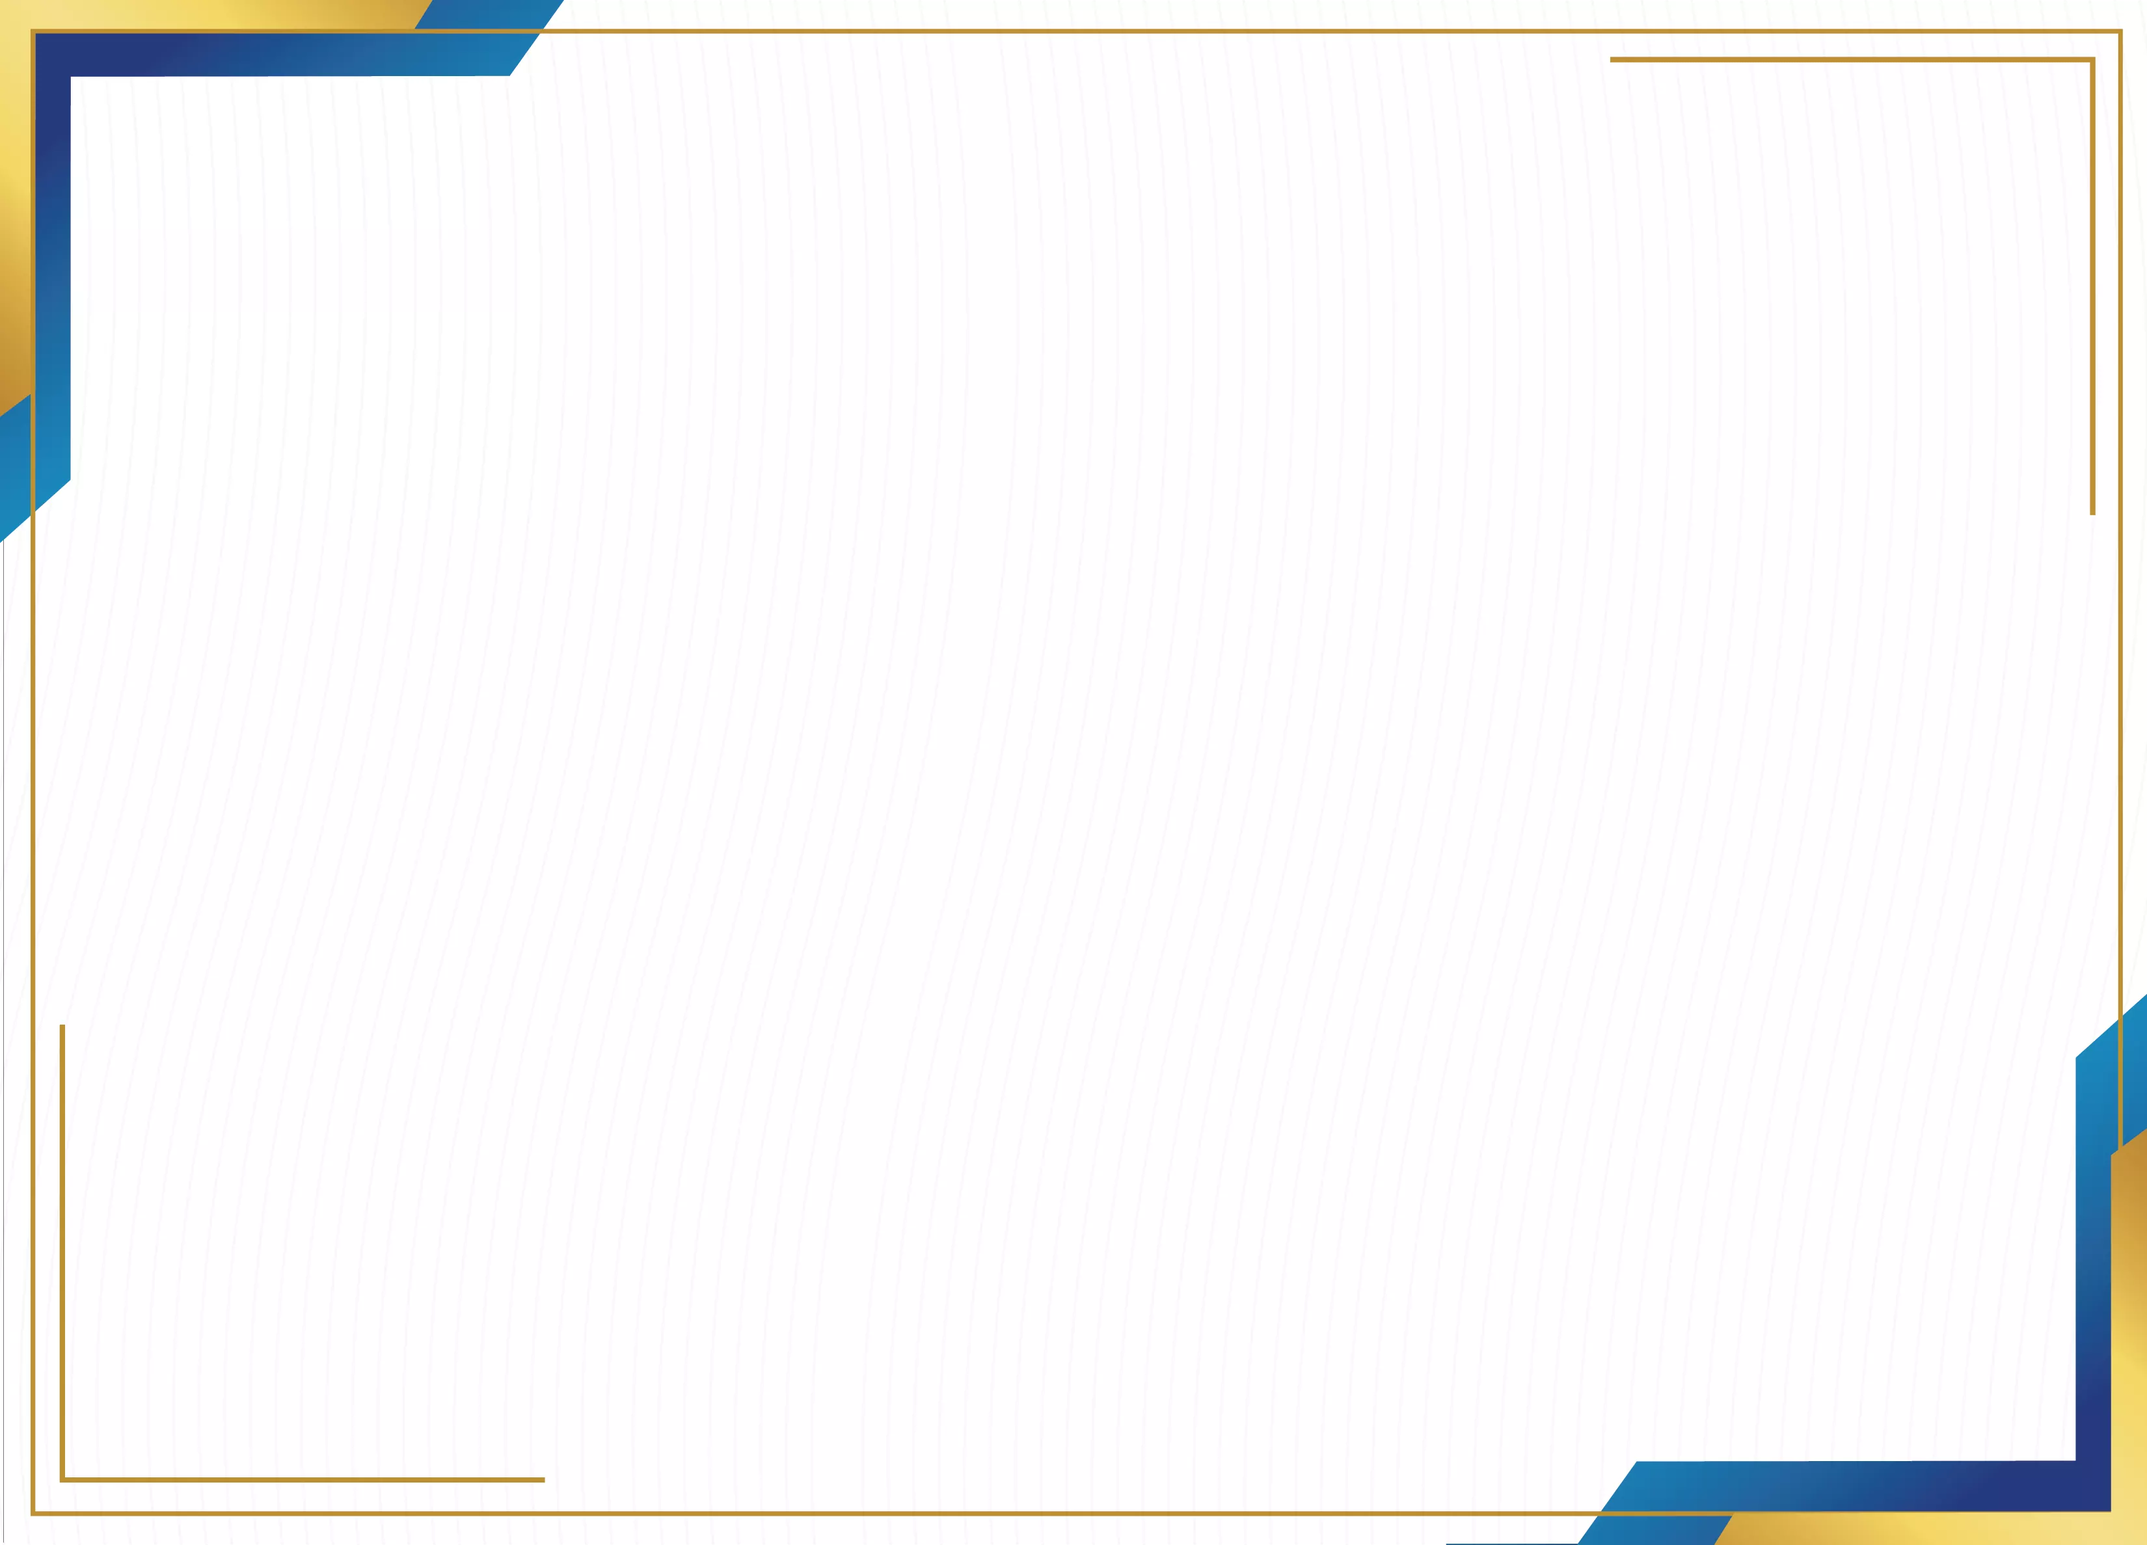
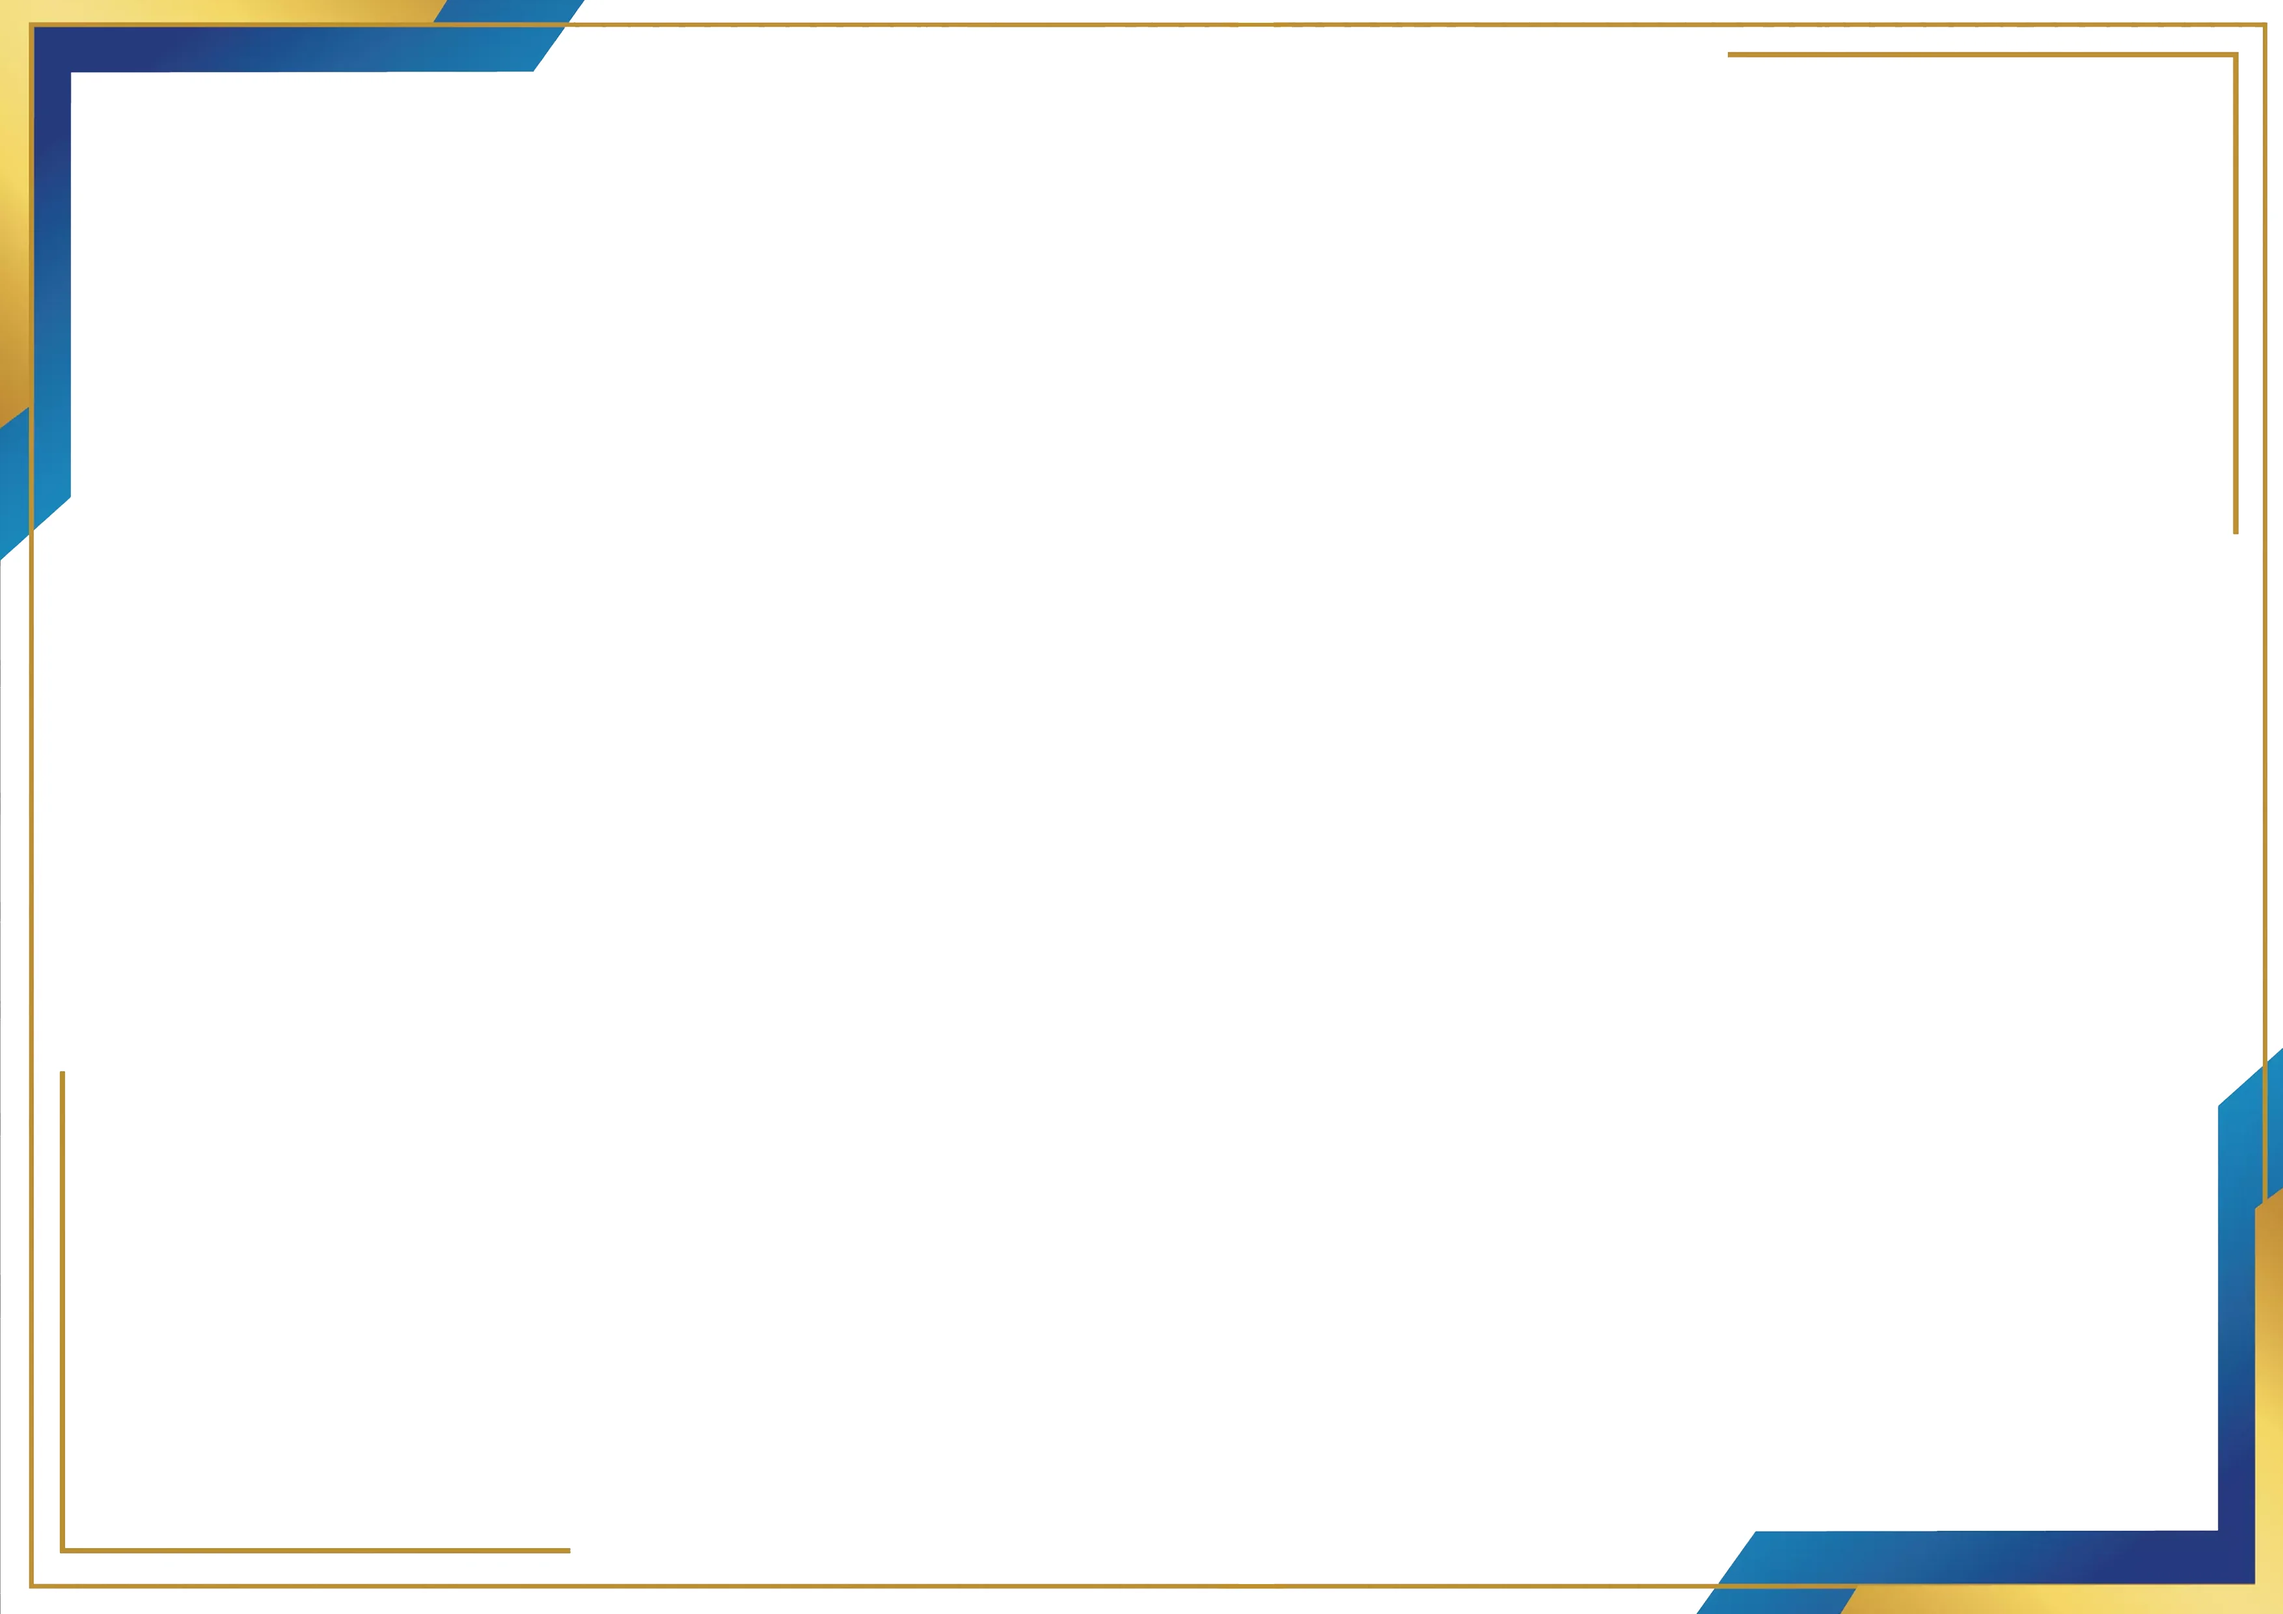
changes

Changed region(s): [[0.0, 0.0, 1.0, 1.0]]

diff --git a/index.html b/index.html
@@ -1,0 +1,45 @@
+<!--
+array(2) {
+  ["bn"]=>
+  array(3) {
+    ["name"]=>
+    string(38) "নাজমুল হক নকীব"
+    ["institution"]=>
+    string(18) "Notre Dame College"
+    ["email"]=>
+    string(21) "nokibsarkar@gmail.com"
+  }
+  ["en"]=>
+  array(0) {
+  }
+}
+-->
+<!DOCTYPE html>
+<html>
+<head>
+<title></title>
+<link href="Styles/font.css" rel="stylesheet"/>
+<script type="text/javascript">
+function t(){
+	var o = document.querySelectorAll("[data-tr]");
+	[...o].forEach(function(v){
+		var prev = v.innerHTML;
+		v.innerHTML = v.dataset.tr;
+		v.dataset.tr = prev;
+		prev = getComputedStyle(v).fontFamily;
+		v.style.fontFamily = v.dataset.ff=="undefined"?"Times new Roman":v.dataset.ff;
+		v.dataset.ff = prev;
+	})
+}
+</script>
+</head>
+<body style="width: 100%;">
+	<div id="options">
+		<button data-ff="SiyamRupali" style="font-family:Times new Roman" data-tr="বাংলা" type="button" onclick="t()">English</button>
+		<button type="button" onclick="window.print()"  value="Print" >মুদ্রণ</button>
+	</div>
+	<div id="certificate">
+	<h1 class="center" data-tr="Certificate of excellence">অংশগ্রহণ সনদ</h1><hr><p data-tr="This is to certify that <b>$en.name$</b>(<i>$en.email$</i>), a student of <b>$en.institution$</b>, has participated in the workshop organized by <i>$en.partners$</i> and <i>Wikimedia foundation</i> on <i>$en.date$</i>.">এতদ্বারা প্রত্যয়ন করা হচ্ছে যে, </span><b>Notre Dame College</b> শিক্ষা প্রতিষ্ঠানের শিক্ষার্থী <b>নাজমুল হক নকীব</b>(<i>nokibsarkar@gmail.com</i>) গত <i>$bn.date$</i> তারিখে <i>$bn.partners$</i> ও <i>উইকিমিডিয়া বাংলাদেশ</i> কর্তৃক আয়োজিত একটি কর্মশালায় অংশগ্রহণ করেছে।
+o</p>	</div>
+</body>
+</html>

diff --git a/Styles/font.css b/Styles/font.css
@@ -11,20 +11,69 @@
 * {
 	font-family:SiyamRupali;
 }
+
+
+
 #certificate {
 	background:url("frame.webp") no-repeat;
 	background-attachment:fixed;
 	background-size:100%;
 	display:block;
-	padding:8%;
 	width:800px;
-	text-align:left;
-	position:absolute;
+	padding: 8%;
+	text-align:justify;
 	min-height:400px;
+	font-size: 3vw;
 }
 .center{
 	text-align:center;
 }
+
+@media (max-width: 575px)
+{
+	#certificate{
+		width: 100%;
+		height: 100vh;
+		max-width: 100%;
+	}
+}
+@media (min-width: 576px)
+{
+	#certificate{
+		width: 100%;
+		height: 100vh;
+		max-width: 540px;
+		max-height: 382px;
+	}
+}
+@media (min-width: 768px)
+{
+	#certificate{
+		width: 100%;
+		height: 100vh;
+		max-width: 720px;
+		max-height: 509px;
+	}
+}
+@media (min-width: 992px)
+{
+	#certificate{
+		width: 100%;
+		height: 100vh;
+		max-width: 960px;
+		max-height: 679px;
+	}
+}
+@media (min-width: 1200px)
+{
+	#certificate{
+		width: 100%;
+		height: 100vh;
+		max-width: 1140px;
+		max-height: 806px;
+	}
+}
+
 @media print{
 	#options {
 		color:red;
@@ -44,7 +93,7 @@
 		outline:0 !important;
 		top:0 !important;
 		width:9in !important;
-		background-size:10.6in 6in;
+		background-size:297mm 210mm;
 		border:2px solid black;
 	}
 }
